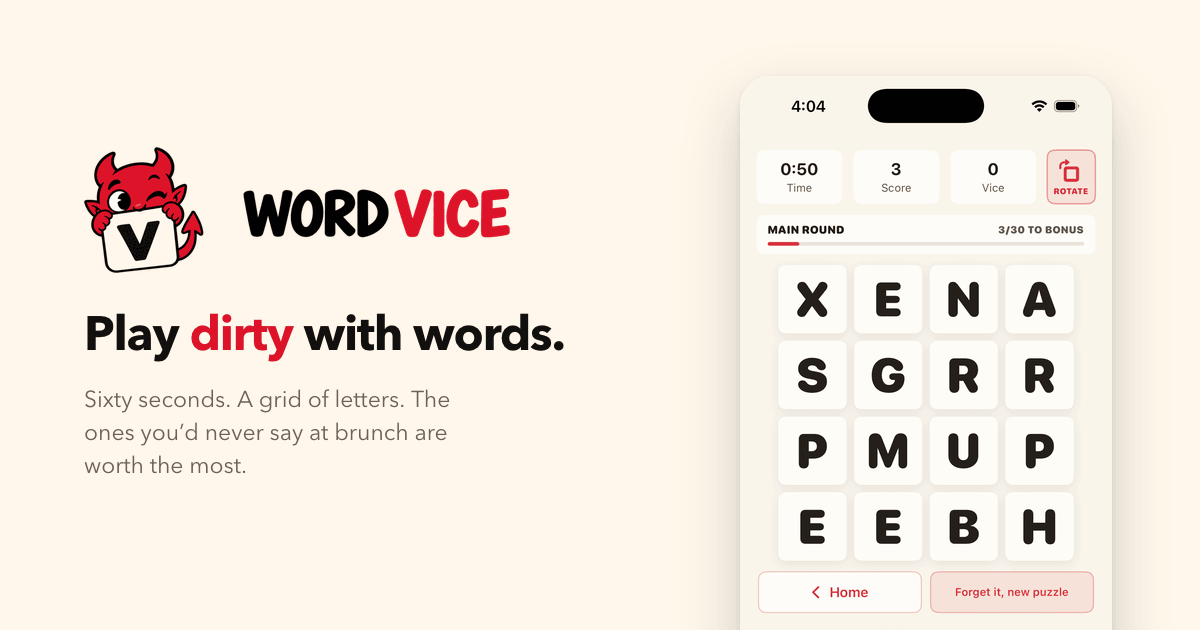
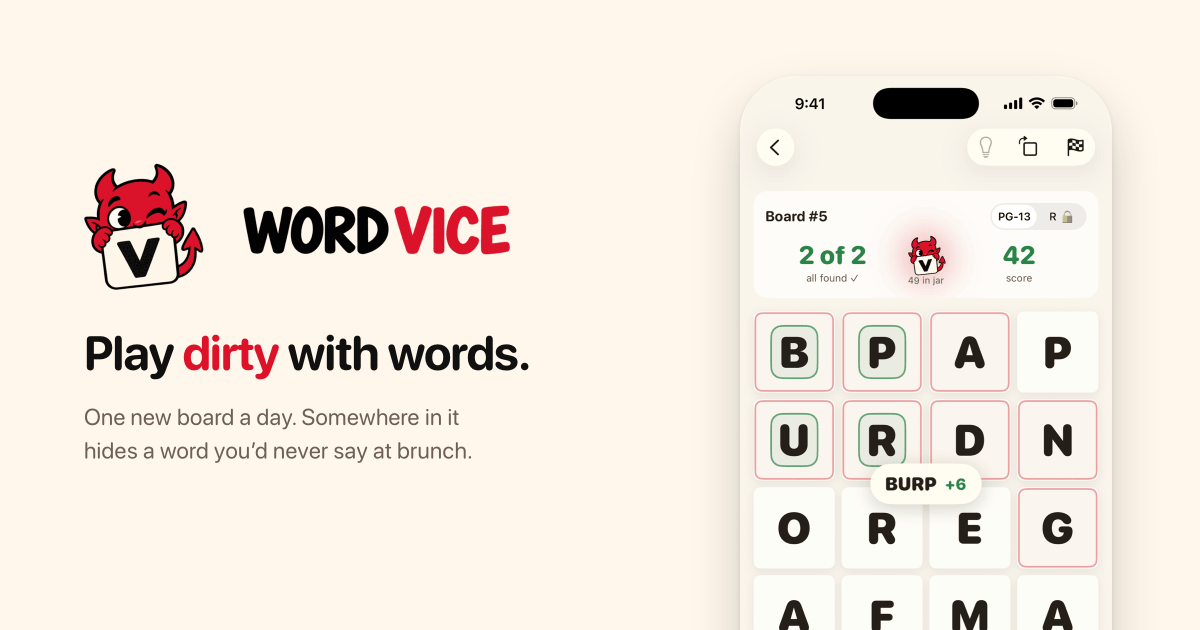
Update screenshots and OG to latest WV art and UI layout

diff --git a/index.html b/index.html
@@ -16,7 +16,7 @@
 <meta property="og:image" content="https://wordvice.app/images/wordvice-og.png">
 <meta property="og:image:width" content="1200">
 <meta property="og:image:height" content="630">
-<meta property="og:image:alt" content="The Word Vice wordmark beside its winking devil mascot, the line ‘Play dirty with words’, and a phone showing a round in progress on a four-by-four letter grid.">
+<meta property="og:image:alt" content="The Word Vice wordmark beside its winking devil mascot, the line ‘Play dirty with words’, and a phone showing the daily board with a vice word just found.">
 <meta property="og:url" content="https://wordvice.app/">
 <meta property="og:type" content="website">
 <meta property="og:site_name" content="Word Vice">
@@ -29,7 +29,7 @@
 
   <header class="hero">
     <figure class="hero-shot">
-      <img src="images/wordvice-round-crush.png" width="1206" height="2622" decoding="async" alt="A Word Vice board mid-round: a four-by-four grid of letters with the timer, score, and vice count above it, and found words listed below.">
+      <img src="images/wordvice-daily-vice-crush.png" width="960" height="2086" decoding="async" alt="Daily board number 5 in Word Vice: a four-by-four grid of letters with BURP just found for six points, both vice words found, and 49 vices in the jar.">
     </figure>
     <div>
       <h1 class="brand"><img src="images/wordvice-lockup.png" width="1000" height="294"
@@ -133,16 +133,16 @@
     <h2>Evidence of Wrongdoing</h2>
     <div class="shots">
       <figure>
-        <img src="images/wordvice-start-screen-r-crush.png" width="1206" height="2622" loading="lazy" decoding="async" alt="The Word Vice start screen with round setup controls for vice level and board size.">
+        <img src="images/wordvice-home-crush.png" width="960" height="2086" loading="lazy" decoding="async" alt="The Word Vice home screen: the devil peeking out of a jar of bad words, the PG-13 and R-Rated picker, buttons for Today’s Board and a Timed Round, and a one-day streak.">
         <figcaption>Choose your level of bad judgment.</figcaption>
       </figure>
       <figure>
-        <img src="images/wordvice-vice-word-crush.png" width="1206" height="2622" loading="lazy" decoding="async" alt="A Vice Word being swiped out mid-round, with Vice Fever running.">
-        <figcaption>Find something you shouldn’t.</figcaption>
+        <img src="images/wordvice-jar-crush.png" width="960" height="2086" loading="lazy" decoding="async" alt="The jar screen: 49 of 98 vices found, rated ‘A sailor would blush’, with each found word shown censored.">
+        <figcaption>Keep everything you shouldn’t have said.</figcaption>
       </figure>
       <figure>
-        <img src="images/wordvice-bonus-transition-crush.png" width="1206" height="2622" loading="lazy" decoding="async" alt="The bonus round unlock screen counting down to a fresh four-by-four board.">
-        <figcaption>Congrats on extending your debauchery.</figcaption>
+        <img src="images/wordvice-timed-crush.png" width="960" height="2086" loading="lazy" decoding="async" alt="A timed round with twelve seconds left: FART highlighted on the board and Vice Fever paying five extra points per vice letter.">
+        <figcaption>Or panic for sixty seconds.</figcaption>
       </figure>
     </div>
   </section>

diff --git a/styles.css b/styles.css
@@ -165,12 +165,14 @@ a:hover { text-decoration: underline; }
 }
 
 /* The hero capture is a full-height device screenshot with dead space below the
-   found-words list; crop to the part that carries the game. */
+   found-words list; crop to the part that carries the game. The captures carry
+   the device's own black corner mask, so the radius is the device's (200px on a
+   1320px-wide screen), given as width / height percentages to stay round. */
 .hero-shot img {
-  aspect-ratio: 1206 / 2250;
+  aspect-ratio: 1320 / 2700;
   object-fit: cover;
   object-position: top;
-  border-radius: 24px;
+  border-radius: 15.2% / 7.4%;
   box-shadow:
     0 1px 0 rgba(17, 17, 17, 0.16),
     0 2px 5px rgba(17, 17, 17, 0.07),
@@ -272,7 +274,7 @@ figure { margin: 0; }
 figure img { width: 100%; border-radius: 10px; }
 
 .shots img {
-  border-radius: 16px;
+  border-radius: 15.2% / 7%;
   box-shadow:
     0 1px 0 rgba(17, 17, 17, 0.14),
     0 2px 5px rgba(17, 17, 17, 0.06),

diff --git a/privacy.html b/privacy.html
@@ -17,7 +17,7 @@
 <meta property="og:image" content="https://wordvice.app/images/wordvice-og.png">
 <meta property="og:image:width" content="1200">
 <meta property="og:image:height" content="630">
-<meta property="og:image:alt" content="The Word Vice wordmark beside a phone showing a round in progress on a four-by-four letter grid.">
+<meta property="og:image:alt" content="The Word Vice wordmark beside a phone showing the daily board with a vice word just found.">
 <meta property="og:type" content="website">
 <meta property="og:site_name" content="Word Vice">
 <meta name="twitter:card" content="summary_large_image">

diff --git a/support.html b/support.html
@@ -17,7 +17,7 @@
 <meta property="og:image" content="https://wordvice.app/images/wordvice-og.png">
 <meta property="og:image:width" content="1200">
 <meta property="og:image:height" content="630">
-<meta property="og:image:alt" content="The Word Vice wordmark beside a phone showing a round in progress on a four-by-four letter grid.">
+<meta property="og:image:alt" content="The Word Vice wordmark beside a phone showing the daily board with a vice word just found.">
 <meta property="og:type" content="website">
 <meta property="og:site_name" content="Word Vice">
 <meta name="twitter:card" content="summary_large_image">
